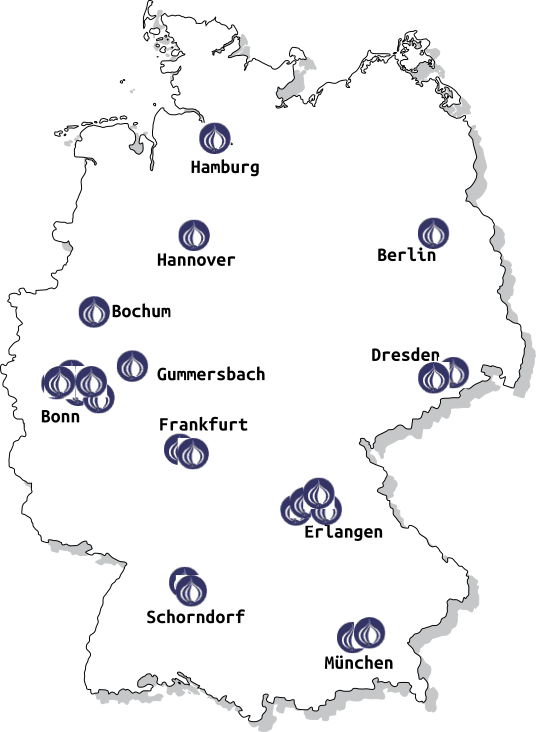
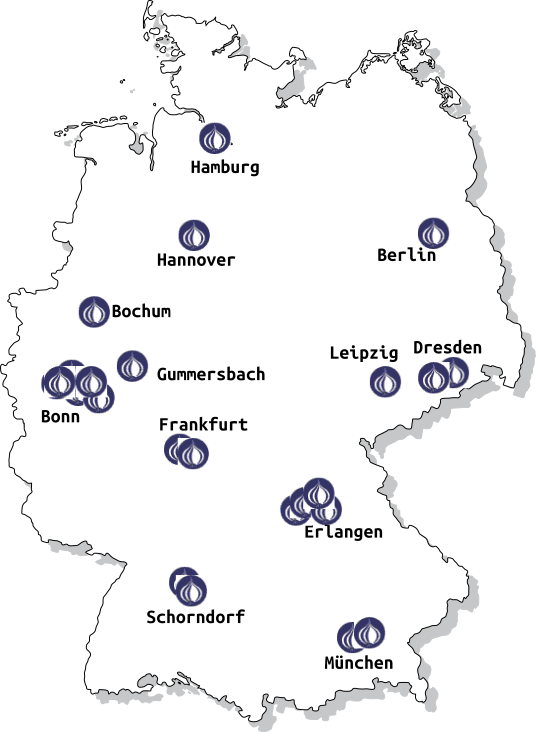
add Leipzig to tour map

Changed region(s): [[0.6269, 0.4508, 0.8955, 0.541]]

diff --git a/static/map.html b/static/map.html
@@ -12,6 +12,7 @@
           <li><b>Gummersbach</b>: 2018</li>
           <li><b>Hamburg</b>: 2017</li>
           <li><b>Hannover</b>: 2014</li>
+          <li><b>Leipzig</b>: 2021</li>
           <li><b>München</b>: 2007, 2019</li>
           <li><b>Schorndorf</b>: 2004, 2010</li>
         </ul>
